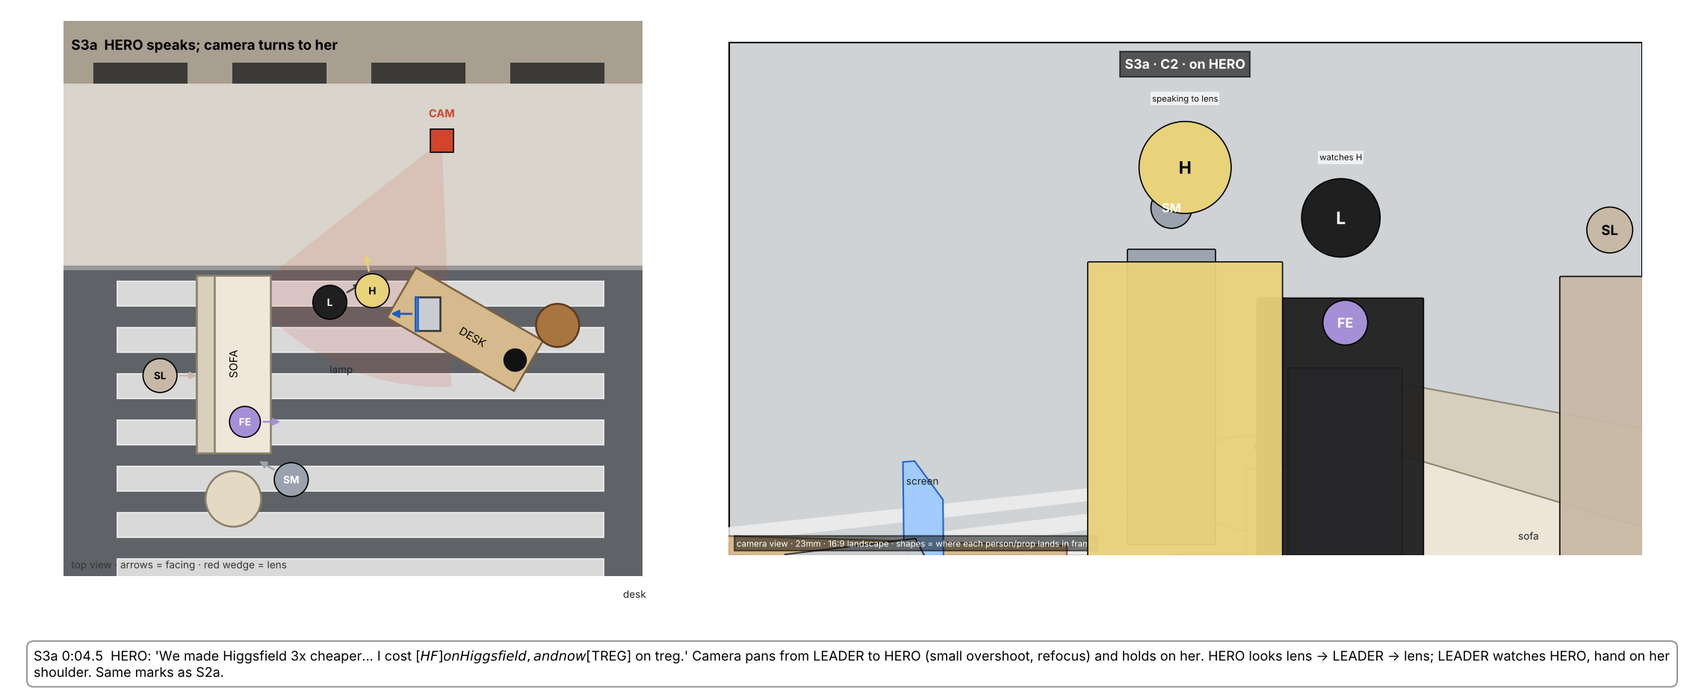
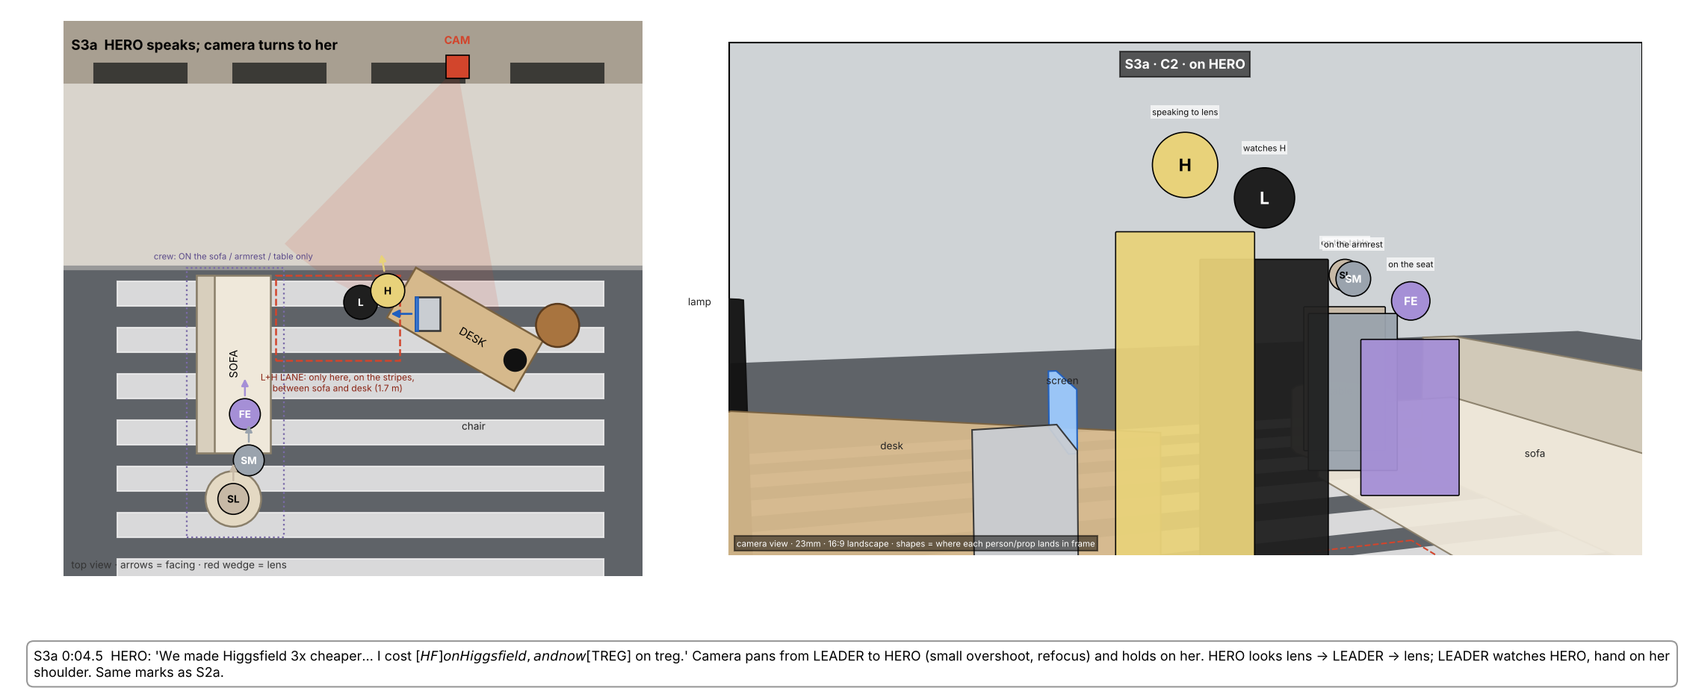
v5.2: lane + contact marks + crew on furniture; cameras pulled back so diagrams show sofa, gap and desk; prompt v5.2
Claude-Session: https://claude.ai/code/session_01UrVJCYAfMmjv3QQnRf3jKV

diff --git a/prompts/shotdiagrams.py b/prompts/shotdiagrams.py
@@ -91,6 +91,10 @@ def draw_top(ax, people, cam, title):
     ax.text(1.2, -1.25, "SOFA", rotation=90, ha="center", va="center", fontsize=7, zorder=4)
     ax.text(4.3, -0.9, "DESK", rotation=-30, ha="center", va="center", fontsize=7, zorder=4)
     ax.annotate("", xy=(3.2, -0.6), xytext=(3.55, -0.6), arrowprops=dict(arrowstyle="-|>", color="#1f5fbf", lw=1.3), zorder=5)
+    ax.add_patch(Rectangle((1.75, -1.2), 1.6, 1.1, fill=False, ec="#d2452c", ls="--", lw=1.2, zorder=4))
+    ax.text(2.55, -1.35, "L+H LANE: only here, on the stripes,\nbetween sofa and desk (1.7 m)", ha="center", va="top", fontsize=5.8, color="#8a2414", zorder=5)
+    ax.add_patch(Rectangle((0.6, -3.5), 1.25, 3.5, fill=False, ec="#7a6aa8", ls=":", lw=1.1, zorder=4))
+    ax.text(1.2, 0.08, "crew: ON the sofa / armrest / table only", ha="center", va="bottom", fontsize=5.5, color="#5b4a8a", zorder=5)
     # camera frustum
     lx, ly = cam["look"]; yaw = math.degrees(math.atan2(ly - cam["y"], lx - cam["x"]))
     hfov = math.degrees(2*math.atan((SENSOR_W/2)/F_MM))
@@ -150,6 +154,9 @@ def draw_cam(ax, people, cam, title):
         s = poly_world([(-0.3, -0.5 - i*0.6), (6.0, -0.5 - i*0.6), (6.0, -0.18 - i*0.6), (-0.3, -0.18 - i*0.6)])
         if s:
             ax.add_patch(Polygon(s, closed=True, fc="#efefef", ec="none", alpha=.85, zorder=1))
+    lane = poly_world([(1.75, -1.2), (3.35, -1.2), (3.35, -0.1), (1.75, -0.1)])
+    if lane:
+        ax.add_patch(Polygon(lane, closed=True, fc="none", ec="#d2452c", ls="--", lw=1.0, zorder=2))
     # depth-sorted objects
     items = []
     for fobj in FURN:
@@ -222,58 +229,57 @@ def render(shot_id, title, beat_text, people, cam):
 
 # ---------- the beats ----------
 # crew home marks
-FE_home = P("FE", 1.35, -2.0, "sit", 0)
-SM_home = P("SM", 1.95, -2.75, "stand", 150)
-SL_home = P("SL", 0.25, -1.4, "stand", 0)
+FE_home = P("FE", 1.35, -1.9, "kneel", 90, "on the seat")
+SM_home = P("SM", 1.4, -2.5, "sit", 90, "on the armrest")
+SL_home = P("SL", 1.2, -3.0, "sit", 90, "on the table")
 
 SHOTS = [
  ("S1a", "Sofa, camera arrives",
   "S1a 0:00  All five at the sofa. LEADER sits at the curb end of the sofa, HERO right beside her on her right (the road side), magazine closed on her lap. "
-  "FEATHER bounces on the far seat; SILVERMAN hops on and off the road-end armrest; SLICKED stands behind the sofa back on tiptoe. "
-  "Camera C1 on the sidewalk, 1.3 m back from the curb, looking down at the sofa. LEADER glances up at the lens. Desk at the right frame edge.",
+  "FEATHER bounces on the far seat; SILVERMAN sits on the road-end armrest and hops up and down on it; SLICKED sits on the travertine table facing the sofa. Nobody stands behind the sofa. "
+  "Camera C1 on the sidewalk, 2.6 m back from the curb, looking down at the sofa. LEADER glances up at the lens. Desk at the right frame edge.",
   [P("L", 1.35, -0.55, "sit", 0, "sits, curb end"), P("H", 1.35, -1.25, "sit", 0, "sits beside L"), FE_home, SM_home, SL_home],
-  CAM(2.6, 1.5, (1.3, -1.3), z=1.5, pitch=-5, note="C1 · wide on the sofa")),
+  CAM(2.9, 2.6, (1.4, -1.4), z=1.5, pitch=-7, note="C1 · wide on the sofa")),
  ("S1b", "They stand and walk; camera backs up",
-  "S1b 0:00.8  LEADER and HERO are up and walking along the curb toward the desk, HERO glued to LEADER's right (road side), magazine now open over her face. "
+  "S1b 0:00.8  LEADER and HERO are up and walking along the curb toward the desk, HERO glued to LEADER's right (road side), magazine now open over her face. They walk ON the white stripes, inside the 1.7 m lane between sofa and desk, never up onto the sidewalk. "
   "Camera walks BACKWARD 2 m ahead of them along the sidewalk, step bob, slight tilt. Crew stays at the sofa, 1–2 m behind the pair, soft. LEADER looks into the lens.",
-  [P("L", 1.95, -0.4, "stand", 0, "walking, eyes on lens"), P("H", 1.95, -1.0, "stand", 0, "magazine over face"),
-   P("FE", 1.35, -2.0, "kneel", 0), P("SM", 1.95, -2.75, "stand", 120), SL_home],
-  CAM(3.6, 1.6, (1.95, -0.6), z=1.5, pitch=-2, roll=2, note="C1→C2 · walking backward")),
+  [P("L", 2.3, -0.4, "stand", 0, "walking, eyes on lens"), P("H", 2.3, -1.0, "stand", 0, "magazine over face"), FE_home, SM_home, SL_home],
+  CAM(3.7, 2.7, (2.3, -0.7), z=1.5, pitch=-5, roll=2, note="C1→C2 · walking backward")),
  ("S2a", "At the desk; LEADER starts her line",
-  "S2a 0:02  They stop beside the desk's near end (the laptop end). LEADER faces the camera on the sidewalk; HERO stands right beside her on her right, now between LEADER and the desk, "
-  "magazine lowered to her chest, looking at LEADER. Camera C2 on the sidewalk, 1.7 m back from the curb. LEADER: 'Still paying Higgsfield for this?' Crew soft 2 m behind.",
-  [P("L", 2.45, -0.45, "stand", 90, "faces lens, speaking"), P("H", 3.0, -0.3, "stand", 120, "looks at L"),
+  "S2a 0:02  They stop at the desk's near end: HERO's right hip almost touches the desk corner, LEADER one step to her left. Both stand on the stripes below the curb; the camera man is the only one on the sidewalk. "
+  "magazine lowered to her chest, looking at LEADER. Camera C2 on the sidewalk, 2.6 m back from the curb. LEADER: 'Still paying Higgsfield for this?' Crew soft 2 m behind.",
+  [P("L", 2.85, -0.45, "stand", 90, "faces lens, speaking"), P("H", 3.2, -0.3, "stand", 120, "at the desk corner, looks at L"),
    FE_home, P("SM", 1.95, -2.75, "stand", 60), SL_home],
-  CAM(3.9, 1.65, (2.6, -0.4), z=1.5, pitch=-2, note="C2 · medium two-shot")),
+  CAM(4.1, 2.6, (2.95, -0.45), z=1.5, pitch=-4, note="C2 · medium two-shot")),
  ("S2b", "Push-in on LEADER",
   "S2b 0:03  While LEADER speaks the camera walks in to 0.8 m: her face and upper body fill the frame, focus on her eyes, proud cute micro-expressions. "
   "HERO is a soft shape at the right edge, still looking at LEADER. Nothing else sharp.",
-  [P("L", 2.45, -0.45, "stand", 90, "close-up"), P("H", 3.0, -0.3, "stand", 120, "soft, edge"), FE_home, SM_home, SL_home],
-  CAM(2.75, 0.4, (2.45, -0.45), z=1.5, pitch=2, note="C2+ · close on LEADER")),
+  [P("L", 2.85, -0.45, "stand", 90, "close-up"), P("H", 3.2, -0.3, "stand", 120, "soft, edge"), FE_home, SM_home, SL_home],
+  CAM(3.15, 0.75, (2.85, -0.45), z=1.5, pitch=0, note="C2+ · close on LEADER")),
  ("S3a", "HERO speaks; camera turns to her",
   "S3a 0:04.5  HERO: 'We made Higgsfield 3x cheaper… I cost [$HF] on Higgsfield, and now [$TREG] on treg.' Camera pans from LEADER to HERO (small overshoot, refocus) and holds on her. "
   "HERO looks lens → LEADER → lens; LEADER watches HERO, hand on her shoulder. Same marks as S2a.",
-  [P("L", 2.45, -0.45, "stand", 30, "watches H"), P("H", 3.0, -0.3, "stand", 100, "speaking to lens"), FE_home, SM_home, SL_home],
-  CAM(3.9, 1.65, (3.0, -0.3), z=1.5, pitch=-2, note="C2 · on HERO")),
+  [P("L", 2.85, -0.45, "stand", 30, "watches H"), P("H", 3.2, -0.3, "stand", 100, "speaking to lens"), FE_home, SM_home, SL_home],
+  CAM(4.1, 2.6, (3.2, -0.3), z=1.5, pitch=-4, note="C2 · on HERO")),
  ("S3b", "Camera walks round to LEADER's left",
   "S3b 0:07  Still on HERO's price line, the camera man walks along the curb to C3, on LEADER's LEFT (the sofa side), 1 m from her. Each step a dip, horizon rolls a degree or two. "
   "In the near foreground: LEADER's left shoulder, kimono sleeve and the back of her bob, soft. HERO still talking beyond her. Desk and laptop behind them.",
-  [P("L", 2.45, -0.45, "stand", 40, "fg shoulder"), P("H", 3.0, -0.3, "stand", 150, "talking"), FE_home, SM_home, SL_home],
-  CAM(1.6, 0.4, (3.0, -0.4), z=1.5, pitch=0, roll=3, note="C3 · arriving, over L's shoulder")),
+  [P("L", 2.85, -0.45, "stand", 40, "fg shoulder"), P("H", 3.2, -0.3, "stand", 150, "talking"), FE_home, SM_home, SL_home],
+  CAM(1.9, 0.6, (3.2, -0.35), z=1.5, pitch=-1, roll=3, note="C3 · arriving, over L's shoulder")),
  ("S4", "LEADER turns her head and speaks side-on",
   "S4 0:10  LEADER keeps her body toward the desk but turns her head over her LEFT shoulder to the camera beside her: three-quarter profile, chest-up, sly proud half-smile, line TBD. "
   "HERO behind her on the right, soft, smiling at her. Camera C3 standing still: only breath sway.",
-  [P("L", 2.45, -0.45, "stand", 150, "head turned to lens"), P("H", 3.0, -0.3, "stand", 170, "soft, smiling at L"), FE_home, SM_home, SL_home],
-  CAM(1.55, 0.25, (2.45, -0.45), z=1.5, pitch=1, note="C3 · side-on close-up")),
+  [P("L", 2.85, -0.45, "stand", 150, "head turned to lens"), P("H", 3.2, -0.3, "stand", 170, "soft, smiling at L"), FE_home, SM_home, SL_home],
+  CAM(1.85, 0.5, (2.85, -0.45), z=1.5, pitch=0, note="C3 · side-on close-up")),
  ("S5a", "Behind LEADER: over her left shoulder onto the laptop",
   "S5a 0:11.5  LEADER steps to the laptop on the desk's near end and stands facing its screen (the screen faces the sofa, so she stands on the sofa side of the desk with her BACK to the sofa and to the camera). "
   "The camera man steps in BEHIND her, slightly to her left, on the crossing, lens at her shoulder height looking past her left shoulder down onto the screen. We see the BACK of her black bob, the edge of her left ear, her left shoulder and kimono sleeve, soft and large at the RIGHT edge of the frame, and the glowing screen beyond in the middle. Her FACE IS NOT VISIBLE. HERO on LEADER's right, seen from behind-three-quarter, leaning in.",
-  [P("L", 3.2, -0.75, "stand", 0, "back to camera"), P("H", 3.15, -1.3, "stand", 20, "leans in"), FE_home, SM_home, SL_home],
-  CAM(2.6, -0.2, (3.72, -0.62), z=1.55, pitch=-26, note="C4 · behind her, over the left shoulder")),
+  [P("L", 3.0, -0.55, "stand", 0, "back to camera, at the desk edge"), P("H", 2.95, -1.1, "stand", 25, "leans in"), FE_home, SM_home, SL_home],
+  CAM(2.5, 0.08, (3.58, -0.62), z=1.55, pitch=-20, note="C4 · behind her, over the left shoulder")),
  ("S5b", "Push-in past her shoulder to the screen",
   "S5b 0:12.5  From behind her the camera pushes forward past her left shoulder until the plain glowing screen fills most of the frame: the back of her bob and the edge of her shoulder slide out of frame on the right, soft. Still no face. No UI, no logo. Hand-off frame for the match cut to the screen recording.",
-  [P("L", 3.2, -0.75, "stand", 0, "back of head, soft"), P("H", 3.15, -1.3, "stand", 20, "")],
-  CAM(3.2, -0.35, (3.68, -0.6), z=1.15, pitch=-20, note="C4+ · screen fills frame")),
+  [P("L", 3.0, -0.55, "stand", 0, "back of head, soft"), P("H", 2.95, -1.1, "stand", 25, "")],
+  CAM(2.95, -0.15, (3.58, -0.62), z=1.25, pitch=-16, note="C4+ · screen fills frame")),
 ]
 
 if __name__ == "__main__":

diff --git a/prompts/shot_plan_v5.md b/prompts/shot_plan_v5.md
@@ -1,8 +1,16 @@
-# treg AIGC promo: hook shot plan v5.1, 0:00–0:13 (Nov 10, 2026)
+# treg AIGC promo: hook shot plan v5.2, 0:00–0:13 (Nov 10, 2026)
 
 **v5.0 is a clean rewrite.** Everything that was superseded (portrait 9:16 frame, furnished plates, per-camera plates, older prop crops, character sheets, earlier keyframes) is gone from this plan and from the repo. What is here is current.
 
-**v5.1 (same day): checked against the top-view blocking, camera moves enriched.** Every mark in section 6 was read back against `blocking/paths_v8.png` and `blocking/set_layout.png` (positions, facings, HERO on LEADER's right, laptop screen toward the sofa, camera path C1→C2→C2+→C3→C4). New section 4b: a camera-move vocabulary and one distinct move per beat, all handheld.
+**v5.2 (Nov 10, after keyframes v7): why people drifted off the marks, and the fix.**
+Root causes found in v7 (S1b, S2a, S3b, S5a, S5b):
+1. **The diagram's camera was too close.** C1/C2 sat 1.5 m from the curb, so in the diagram's camera view the two women filled the frame and the desk and sofa were cropped out. The model had no furniture in the diagram to anchor to, matched the people's *size* instead, and the only place that size fits in the wide empty plate is up on the sidewalk, close to the lens. Fix: C1/C2 moved to 2.6 m back; every diagram's camera view now shows the desk corner, the gap and the sofa edge together with the people.
+2. **"Beside the desk" and "between sofa and desk" had no measure.** The model stretched the gap to 4–5 m and put people in the middle of it. Fix: the gap is written as **1.7 m, one sofa length**, and the marks are stated as contact: *HERO's right hip almost touches the desk's near corner; LEADER one step to her left.*
+3. **Nothing said who may stand on the sidewalk.** Fix: *the camera man is the only person on the sidewalk; everyone else stands or sits on the zebra crossing below the curb.* The diagrams now draw an **L+H lane** (dashed red box, 1.7 m × 1.1 m, on the stripes between sofa and desk) and the people are only ever inside it.
+4. **"Crew around the sofa" let them stand behind it.** Fix: *FEATHER on the seat, SILVERMAN on the road-end armrest, SLICKED on the travertine table; nobody stands behind the sofa.* The crew zone in the diagrams is now the sofa's own footprint.
+5. **S5b had no street in frame**, so the model invented a room. Fix: the beat now keeps the stripes and road visible beyond the screen and says so.
+
+**v5.1: checked against the top-view blocking, camera moves enriched.** Every mark in section 6 was read back against `blocking/paths_v8.png` and `blocking/set_layout.png` (positions, facings, HERO on LEADER's right, laptop screen toward the sofa, camera path C1→C2→C2+→C3→C4). New section 4b: a camera-move vocabulary and one distinct move per beat, all handheld.
 
 **What changed in v5.0**
 - **Frame is 16:9 landscape** (X's wide video format). The X100VI is held horizontally.
@@ -37,9 +45,10 @@ Base: `https://raw.githubusercontent.com/cicadaaa/ugc-assets/main/`
 - **Location** (`plates/scene_empty.jpg`): a granite sidewalk along an old carved-stone building with warm-lit shop windows; from the curb a wide zebra crossing runs straight out across the road, perpendicular to the sidewalk, stripes parallel to the curb.
 - **Sofa:** on the zebra crossing, perpendicular to the curb, one end touching it, seat facing the desk. Travertine table at its road end.
 - **Desk:** on the crossing about 2 m along the curb, at 30°, near end touching the curb. Laptop on the near end, **screen facing the sofa**, lid blank. Dome lamp on the far end; tan chair behind.
+- **The L+H lane.** LEADER and HERO only ever stand or walk inside the 1.7 m gap between the sofa's curb end and the desk's near corner, on the white stripes, one step below the curb. They never step up onto the sidewalk and never pass the desk. At the desk their marks are contact marks: HERO's right hip almost touches the desk's near corner; LEADER is one step to HERO's left.
 - **HERO is always on LEADER's right.**
-- **Crew:** FEATHER, SILVERMAN and SLICKED stay within a ring around the sofa, hopping around it.
-- **Camera man:** on the sidewalk or the curb edge, except in S5 where he steps onto the crossing behind LEADER.
+- **Crew:** FEATHER kneels/bounces on the sofa seat, SILVERMAN sits on the road-end armrest and hops on and off it, SLICKED sits on the travertine table facing the sofa. They stay ON the furniture; nobody stands behind the sofa or wanders onto the crossing.
+- **Camera man:** the ONLY person on the sidewalk. C1 and C2 are 2.6 m back from the curb (so the frame holds sofa, gap and desk together), C2+ and C3 at the curb edge, C4 on the crossing behind LEADER.
 
 | File | What |
 |---|---|
@@ -162,7 +171,7 @@ These hold in every shot; the per-shot tables in section 6 add what each person 
 ### S1a · Sofa, camera arrives · 0:00–0:00.8
 - **Diagram (image 9):** `blocking/shots/S1a.png`
 - **Camera:** C1 — wide, sidewalk, 2.6 m from the sofa. 16:9 landscape.
-- **Beat:** LEADER sits at the curb end of the sofa; HERO right beside her on her right (road side), magazine closed on her lap. FEATHER bounces on the far seat; SILVERMAN hops on and off the road-end armrest; SLICKED stands behind the sofa back on tiptoe. LEADER glances up at the lens. The desk is two metres along the curb at the right of frame.
+- **Beat:** LEADER sits at the curb end of the sofa; HERO right beside her on her right (road side), magazine closed on her lap. FEATHER bounces on the far seat; SILVERMAN sits on the road-end armrest and hops on it; SLICKED sits on the travertine table facing the sofa. Nobody stands behind the sofa. LEADER glances up at the lens. The desk is 1.7 m along the curb at the right of frame, in the same shot as the sofa.
 - **Handheld:** Camera man arriving: last two steps, a small bob, settles; frame drifts a degree and corrects.
 - **Move:** arrive-and-settle. He walks the last two steps toward the sofa, the frame bobs twice, overshoots slightly past LEADER and settles on the group. Rack: the frame is on the whole group; focus sits on LEADER.
 - **Asset lock (paste into this beat's prompt):** ASSET LOCK: the location is image 6 and it never changes. The sofa and table look exactly like image 7, the desk, laptop, lamp and chair look exactly like image 8, and every one of them stands exactly where image 9 puts it. Do not move, add, restyle or reinvent any furniture, building, curb or stripe. Every person's face and outfit come only from images 1-5.
@@ -170,7 +179,7 @@ These hold in every shot; the per-shot tables in section 6 add what each person 
 ### S1b · They stand and walk; camera backs up · 0:00.8–0:02
 - **Diagram (image 9):** `blocking/shots/S1b.png`
 - **Camera:** C1→C2 — walking backward along the sidewalk. 16:9 landscape.
-- **Beat:** LEADER and HERO are up and walking along the curb toward the desk and the lens, HERO glued to LEADER's right, magazine open over her face. Crew stays at the sofa 1–2 m behind, soft. LEADER's eyes on the lens.
+- **Beat:** LEADER and HERO are up and walking along the curb toward the desk, HERO glued to LEADER's right, magazine open over her face. They are inside the 1.7 m lane between sofa and desk, on the white stripes, one step below the curb, never on the sidewalk; the sofa is one step behind them and the desk one step ahead, both in frame. LEADER's eyes on the lens.
 - **Handheld:** Short uneven backward steps, a soft bob on each, slight sway, horizon tilts ~2° and is corrected; one glance over his shoulder (small jolt) before the desk.
 - **Move:** tilt-up on the rise, then walking backward. As LEADER stands the camera tilts up a beat late, her head clips the top edge and he corrects; then he backs up along the sidewalk, short uneven steps, soft bob, 1–3° tilt corrected each step; one step dips to waist height and comes back up; one glance-back jolt before the desk.
 - **Asset lock (paste into this beat's prompt):** ASSET LOCK: the location is image 6 and it never changes. The sofa and table look exactly like image 7, the desk, laptop, lamp and chair look exactly like image 8, and every one of them stands exactly where image 9 puts it. Do not move, add, restyle or reinvent any furniture, building, curb or stripe. Every person's face and outfit come only from images 1-5.
@@ -178,7 +187,7 @@ These hold in every shot; the per-shot tables in section 6 add what each person 
 ### S2a · At the desk; LEADER starts her line · 0:02–0:03
 - **Diagram (image 9):** `blocking/shots/S2a.png`
 - **Camera:** C2 — medium two-shot, 1.7 m back from the curb. 16:9 landscape.
-- **Beat:** They stop beside the desk's near (laptop) end. LEADER faces the lens and starts: "Still paying Higgsfield for this?" HERO at her right, between her and the desk, magazine at her chest, looking at LEADER. Crew soft behind at the sofa.
+- **Beat:** They stop at the desk's near (laptop) end: HERO's right hip almost touches the desk corner, LEADER one step to her left; both on the stripes below the curb, the sofa one sofa-length behind them in frame. LEADER faces the lens and starts: "Still paying Higgsfield for this?" HERO, magazine at her chest, looks at LEADER. Crew soft on the sofa behind.
 - **Handheld:** Standing: breath sway, small framing corrections.
 - **Move:** stop and rack focus. He stops at C2 with a small settle; focus is briefly on HERO's magazine and racks to LEADER's eyes as she opens her mouth.
 - **Asset lock (paste into this beat's prompt):** ASSET LOCK: the location is image 6 and it never changes. The sofa and table look exactly like image 7, the desk, laptop, lamp and chair look exactly like image 8, and every one of them stands exactly where image 9 puts it. Do not move, add, restyle or reinvent any furniture, building, curb or stripe. Every person's face and outfit come only from images 1-5.
@@ -202,7 +211,7 @@ These hold in every shot; the per-shot tables in section 6 add what each person 
 ### S3b · Camera walks round to LEADER's left · 0:07–0:10
 - **Diagram (image 9):** `blocking/shots/S3b.png`
 - **Camera:** C2→C3 — arriving on LEADER's left, 1 m. 16:9 landscape.
-- **Beat:** Still HERO's price line. The camera man walks along the curb to LEADER's LEFT (sofa side). Foreground: LEADER's left shoulder, sleeve and the back of her bob, soft. HERO talking beyond her; the desk and laptop behind HERO.
+- **Beat:** Still HERO's price line; nobody has moved: HERO still at the desk corner, LEADER one step to her left, both on the stripes. The camera man walks along the curb edge to LEADER's LEFT (sofa side), 1 m from her. Foreground: LEADER's left shoulder, sleeve and the back of her bob, soft. HERO talking beyond her, the desk and laptop right behind HERO.
 - **Handheld:** Each step a visible dip; the horizon rolls 2–3° and levels as he stops.
 - **Move:** arc. Still on HERO's line he walks a quarter circle along the curb to LEADER's left; each step a dip, the sofa and building sweep across the background, the horizon rolls 2–3° and levels as he stops; LEADER's shoulder grows into the left foreground.
 - **Asset lock (paste into this beat's prompt):** ASSET LOCK: the location is image 6 and it never changes. The sofa and table look exactly like image 7, the desk, laptop, lamp and chair look exactly like image 8, and every one of them stands exactly where image 9 puts it. Do not move, add, restyle or reinvent any furniture, building, curb or stripe. Every person's face and outfit come only from images 1-5.
@@ -218,7 +227,7 @@ These hold in every shot; the per-shot tables in section 6 add what each person 
 ### S5a · BEHIND LEADER: over her left shoulder onto the laptop · 0:11.5–0:12.5
 - **Diagram (image 9):** `blocking/shots/S5a.png`
 - **Camera:** C4 — behind her, lens at her shoulder height. 16:9 landscape.
-- **Beat:** LEADER steps to the laptop on the desk's near end and stands facing its screen. **The screen faces the sofa, so she stands on the sofa side of the desk with her BACK to the camera.** The camera man steps in BEHIND her, slightly to her left. **Her face is NOT visible.** What the camera sees: the back of her black bob and the edge of her left ear, her left shoulder and the pinstripe kimono sleeve, large and soft at the right edge of the frame; past her shoulder, the open laptop on the desk with its plain glowing screen, sharp in the middle of the frame. HERO on LEADER's right, seen from behind three-quarter, leaning toward the screen. The laptop never moves.
+- **Beat:** LEADER takes half a step to the laptop and stands at the desk's near edge facing the screen, close enough to touch the keyboard. **The screen faces the sofa, so she stands on the sofa side of the desk with her BACK to the camera.** The sofa is 1.7 m behind her, at the left edge of frame. The camera man steps in BEHIND her, slightly to her left. **Her face is NOT visible.** What the camera sees: the back of her black bob and the edge of her left ear, her left shoulder and the pinstripe kimono sleeve, large and soft at the right edge of the frame; past her shoulder, the open laptop on the desk with its plain glowing screen, sharp in the middle of the frame. HERO on LEADER's right, seen from behind three-quarter, leaning toward the screen. The laptop never moves.
 - **Handheld:** A step and a half in behind her: a dip, a slight roll; focus racks from her shoulder to the screen.
 - **Move:** step-in behind + rack focus. A step and a half round behind her onto the crossing: a dip, a slight roll; the back of her bob enters frame large on the right; focus racks from her shoulder to the screen.
 - **Asset lock (paste into this beat's prompt):** ASSET LOCK: the location is image 6 and it never changes. The sofa and table look exactly like image 7, the desk, laptop, lamp and chair look exactly like image 8, and every one of them stands exactly where image 9 puts it. Do not move, add, restyle or reinvent any furniture, building, curb or stripe. Every person's face and outfit come only from images 1-5.
@@ -226,7 +235,7 @@ These hold in every shot; the per-shot tables in section 6 add what each person 
 ### S5b · Push past her shoulder into the screen · 0:12.5–0:13
 - **Diagram (image 9):** `blocking/shots/S5b.png`
 - **Camera:** C4+ — screen fills the frame. 16:9 landscape.
-- **Beat:** From behind her, the camera pushes forward past her left shoulder until the plain glowing screen fills most of the frame. The back of her bob and her shoulder slide out of frame on the right, soft. **Still no face.** No UI, no logo. Hand-off frame for the match cut to the screen recording.
+- **Beat:** From behind her, the camera pushes forward past her left shoulder until the plain glowing screen fills most of the frame. The back of her bob and her shoulder slide out of frame on the right, soft. **Still no face.** Beyond and around the screen, out of focus: the oak desk top, the white stripes and the grey road of the same street; this is still outdoors on the crossing. No UI, no logo. Hand-off frame for the match cut to the screen recording.
 - **Handheld:** A slow handheld push with a little wobble; a one-degree tilt.
 - **Move:** slow push past. He pushes forward past her left shoulder; her bob and shoulder slide out on the right; the screen fills the frame; a little wobble, a 1° tilt; the last frame is the hand-off.
 - **Asset lock (paste into this beat's prompt):** ASSET LOCK: the location is image 6 and it never changes. The sofa and table look exactly like image 7, the desk, laptop, lamp and chair look exactly like image 8, and every one of them stands exactly where image 9 puts it. Do not move, add, restyle or reinvent any furniture, building, curb or stripe. Every person's face and outfit come only from images 1-5.
@@ -264,7 +273,7 @@ Both are rendered in code with the real fonts, so the type is exact and cannot b
 - **Outfits:** exactly one kimono (LEADER), one blonde (HERO), one magazine (HERO).
 - **Location:** same building, sidewalk, curb and crossing as `plates/scene_empty.jpg`; the frame is 16:9 landscape.
 - **Furniture look:** the sofa, table, desk, laptop, lamp and chair look like `props/`.
-- **Positions:** every person and every piece of furniture is where the beat's diagram puts it. HERO is on LEADER's right. The laptop screen faces the sofa.
+- **Positions:** every person and every piece of furniture is where the beat's diagram puts it. LEADER and HERO are inside the lane (on the stripes, between sofa and desk, below the curb), never on the sidewalk; at the desk HERO touches the desk corner. Sofa-to-desk gap reads as one sofa length. Crew is ON the sofa/armrest/table. HERO is on LEADER's right. The laptop screen faces the sofa.
 - **S5a/S5b:** LEADER seen from behind only (bob, ear edge, shoulder). No face.
 - **Light:** soft overcast, neutral faces, no sun.
 

diff --git a/prompts/keyframe_prompt.md b/prompts/keyframe_prompt.md
@@ -1,4 +1,4 @@
-# Keyframe prompt (v5.1) — one template, every beat, 16:9
+# Keyframe prompt (v5.2) — one template, every beat, 16:9
 
 Model: `reapi.image-gen.gemini-3-pro-image`, size **16:9**, 2K. `image_urls`, always this order:
 
@@ -18,7 +18,7 @@ Image 5 = SILVERMAN: the only man, shoulder-length silver hair, white tee, beige
 Image 6 = the LOCATION: this exact empty street, 16:9, with no furniture. Its carved-stone building, warm shop windows, granite sidewalk, curb and zebra crossing never change; build the frame inside this street.
 Image 7 = what the cream sofa and round travertine table look like. Image 8 = what the light oak desk, silver laptop, black dome lamp and tan chair look like. Copy their appearance exactly; they are LOOK references, not position references.
 Image 9 = the BLOCKING DIAGRAM for this frame. Left half: top view, red square = this camera, red wedge = where it points, arrows = which way each person faces. Right half: the 16:9 camera view, where each labelled shape (L = LEADER, H = HERO, FE, SM, SL, and the furniture) must land in the frame. Place every person and every piece of furniture exactly where its shape is.
-SET RULES. The sofa stands on the zebra crossing perpendicular to the curb, one end touching the curb, seat facing the desk; the travertine table at its road end. The desk stands on the crossing two metres along the curb at 30 degrees, near end touching the curb; the laptop sits on the desk end nearest the sofa with its SCREEN FACING THE SOFA and its lid blank; the dome lamp on the far end; the tan chair behind. Exactly five people, never more. HERO is always right beside LEADER, on LEADER's right. FEATHER, SILVERMAN and SLICKED stay around the sofa.
+SET RULES. The sofa stands on the zebra crossing perpendicular to the curb, one end touching the curb, seat facing the desk; the travertine table at its road end. The desk stands on the crossing only 1.7 metres along the curb, ONE SOFA LENGTH away, at 30 degrees, near end touching the curb; the laptop sits on the desk end nearest the sofa with its SCREEN FACING THE SOFA and its lid blank; the dome lamp on the far end; the tan chair behind. Exactly five people, never more. THE CAMERA MAN IS THE ONLY PERSON ON THE SIDEWALK; everyone else stands or sits on the zebra crossing below the curb. LEADER and HERO are only ever inside the short lane between the sofa's curb end and the desk's near corner (the dashed red box in image 9), on the white stripes, never up on the sidewalk and never past the desk; at the desk, HERO's right hip almost touches the desk's near corner and LEADER stands one step to HERO's left. HERO is always right beside LEADER, on LEADER's right. FEATHER kneels on the sofa seat, SILVERMAN sits on the road-end armrest, SLICKED sits on the travertine table; they stay ON the furniture and nobody stands behind the sofa.
 LOOK. Fujifilm X100VI 23mm f/2, Eterna film simulation, held horizontally, 16:9 landscape frame, handheld by one young man at chest height, so the frame is never perfectly level or perfectly still. Soft overcast late-afternoon light around 6500K, no sun, no hard shadows; faces lit evenly by the grey sky, neutral skin with visible pores, fine grain. A light breeze in hair and fabric.
 ```
 ## Beat part (per beat, built from the shot plan section 6: Camera + Move + Beat)
@@ -29,5 +29,5 @@ ASSET LOCK: the location is image 6 and it never changes. The sofa and table loo
 ```
 ## Ending
 ```
-Avoid: airbrushed skin, studio light, direct sun, extra people, passers-by, a second kimono, a second blonde, any text on the magazine, any logo or sticker on the laptop, readable signs, borders, an older-looking LEADER, a laptop turned toward the camera, furniture placed anywhere other than where image 9 puts it, furniture that looks different from images 7-8, a different street from image 6, a vertical frame, a perfectly level tripod-steady frame.
+Avoid: airbrushed skin, studio light, direct sun, extra people, passers-by, a second kimono, a second blonde, any text on the magazine, any logo or sticker on the laptop, readable signs, borders, an older-looking LEADER, a laptop turned toward the camera, furniture placed anywhere other than where image 9 puts it, furniture that looks different from images 7-8, a different street from image 6, anyone but the camera man on the sidewalk, LEADER or HERO outside the lane, a sofa-to-desk gap wider than one sofa, anyone standing behind the sofa, a vertical frame, a perfectly level tripod-steady frame.
 ```
